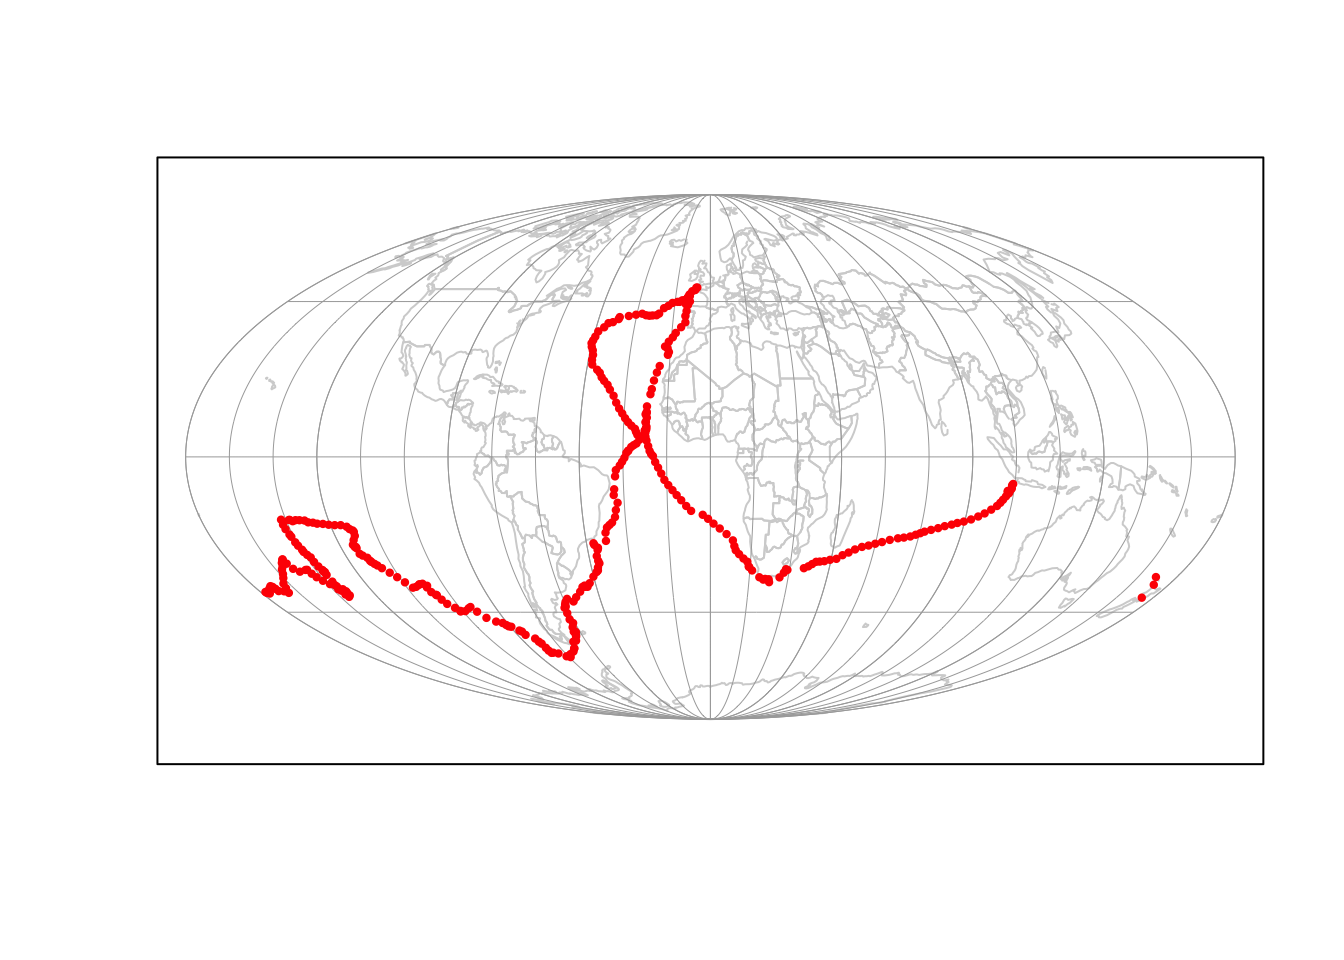
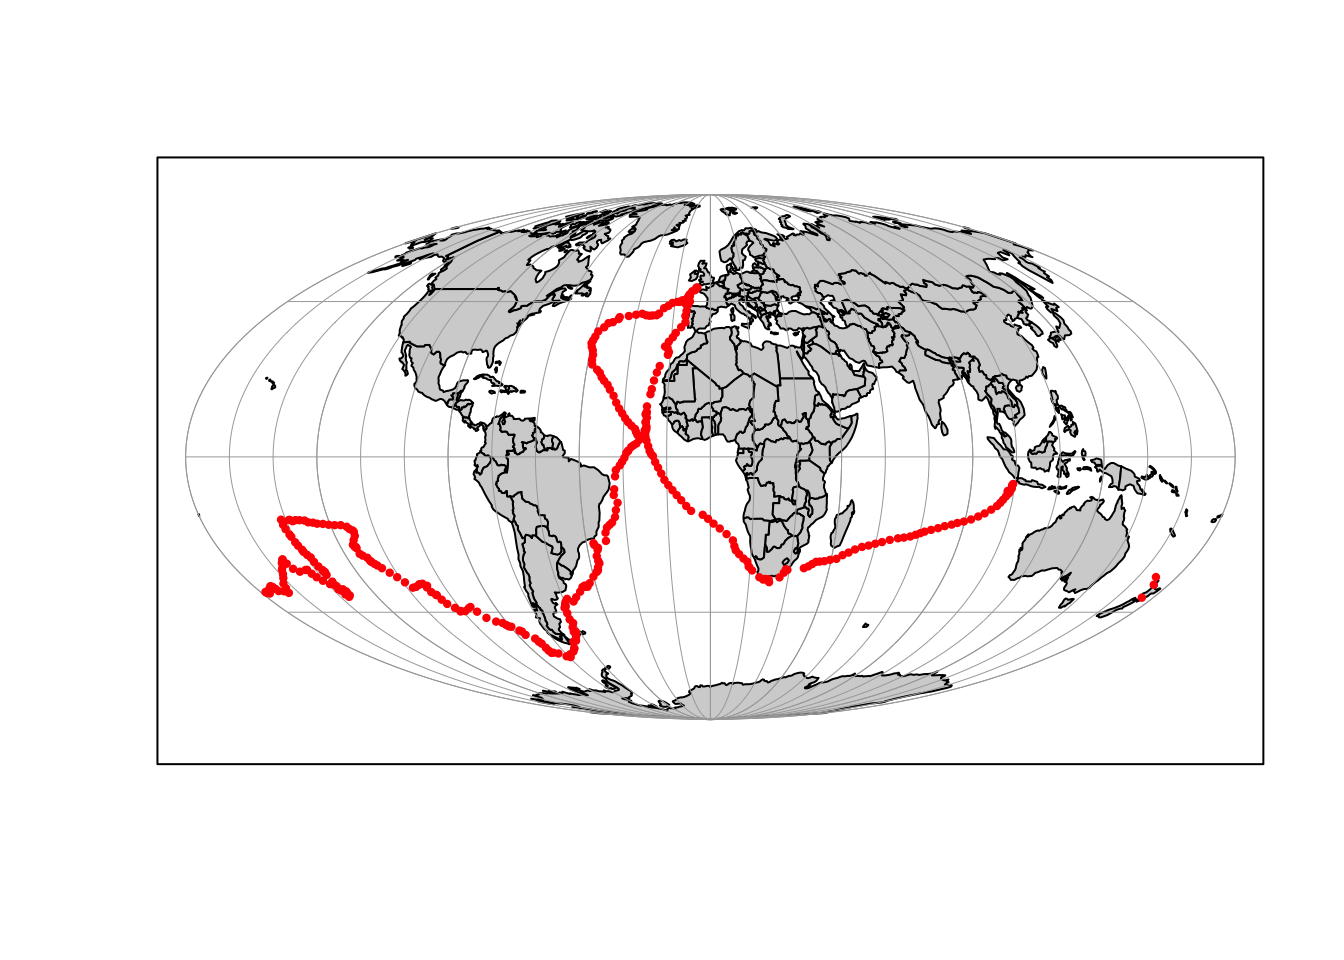
update movie post for filled map

Changed region(s): [[0.2812, 0.1875, 0.875, 0.6875], [0.375, 0.6875, 0.7188, 0.75]]

diff --git a/content/post/2018-03-24-making-movies-in-r.html b/content/post/2018-03-24-making-movies-in-r.html
@@ -29,7 +29,7 @@ data(coastlineWorld)
 data(endeavour)
 
 # plot full track
-mapPlot(coastlineWorld, type=&#39;l&#39;, proj=&#39;+proj=moll&#39;, col=&#39;lightgray&#39;)
+mapPlot(coastlineWorld, proj=&#39;+proj=moll&#39;, col=&#39;lightgray&#39;)
 mapPoints(endeavour$longitude, endeavour$latitude, pch=20, cex=2/3, col=&#39;red&#39;)</code></pre>
 <p><img src="/post/2018-03-24-making-movies-in-r_files/figure-html/data-1.png" width="672" /></p>
 <p>This kind of static map provides a nice global overview, but doesn’t give a great sense of how that the voyage progressed over time.</p>
